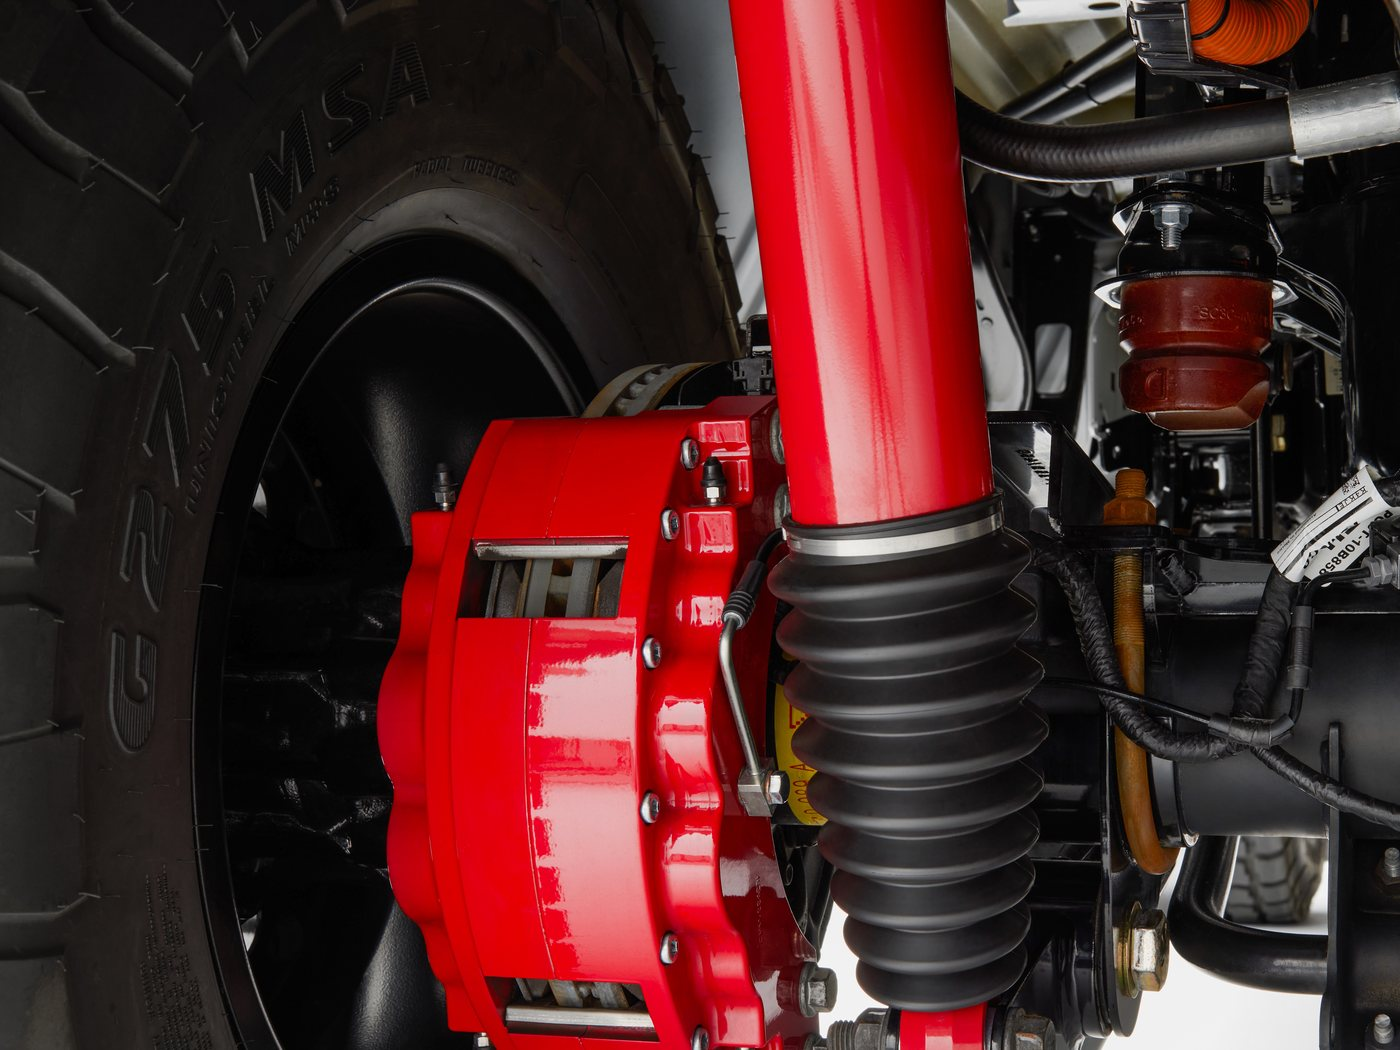
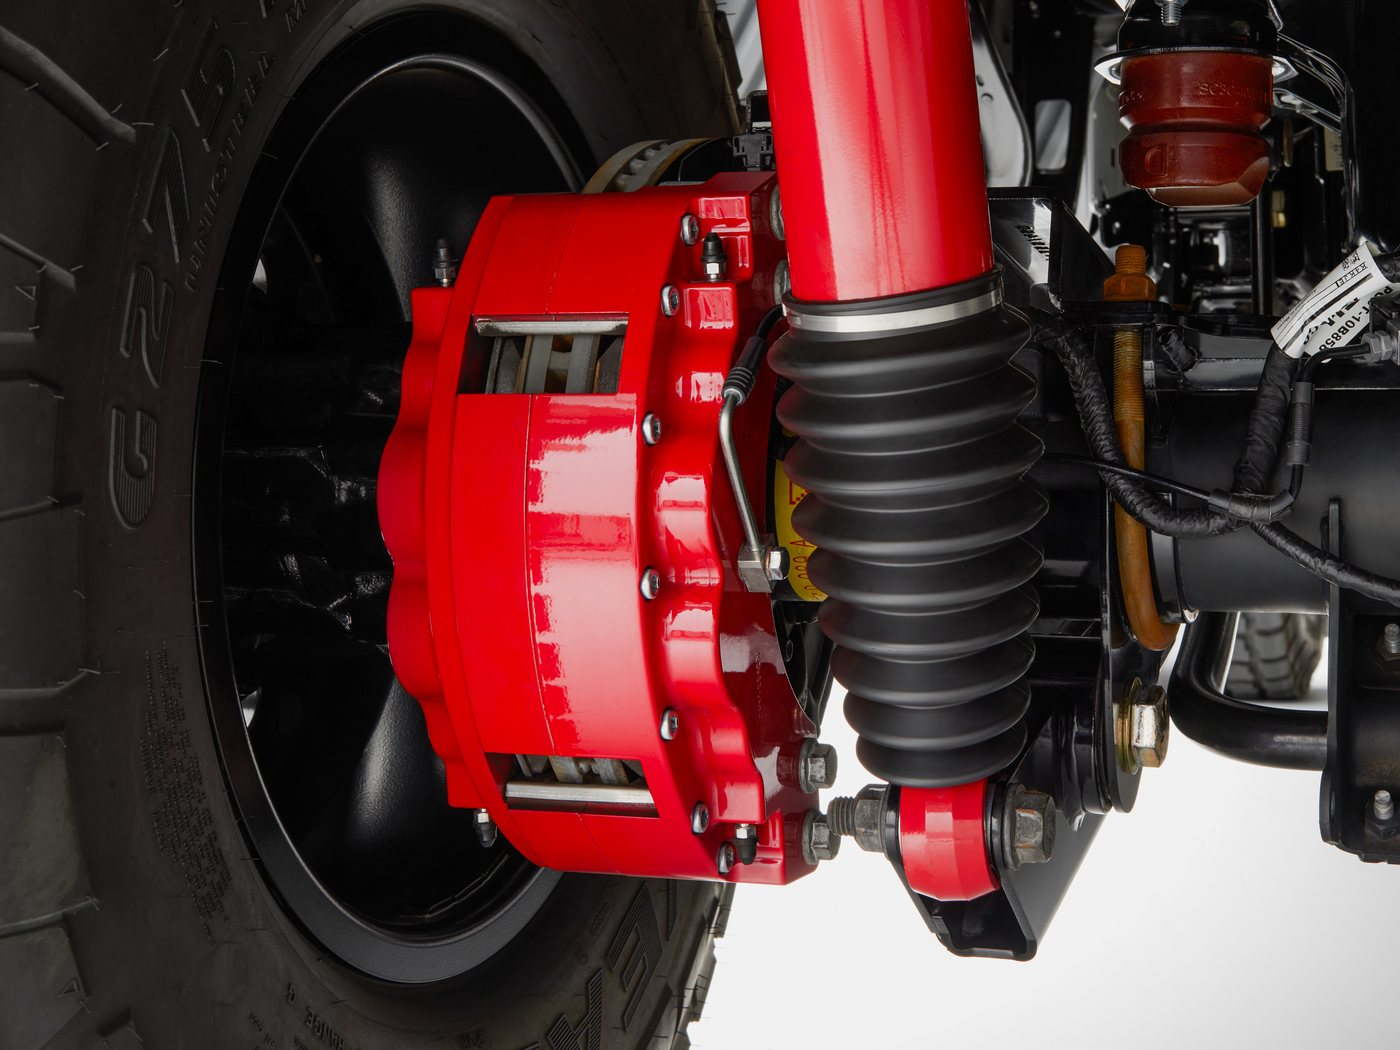
Lead the brake panel with the kit and the hard stop
The panel was arguing from a test procedure, which is the least
interesting true thing about it. What a buyer towing 14,000 lb wants to
know is that the Beast kit is on every truck we build as standard, and
what the truck does when somebody actually stands on the pedal.

So 185 ft is the figure now, and 229 stays in the prose: 185 is the
number worth reading and 229 is the number the written report contains,
and a page resting only on the first would have nothing behind it. The
note says plainly that the 185 ft stop was made outside the measured
procedure and comes from the test engineer rather than the report.

The front crop also moves down to put the caliper on the middle line --
it was sitting low enough to lose its bottom edge -- and both photo srcs
pick up a version so the new crop is not read past.

diff --git a/index.html b/index.html
@@ -296,21 +296,22 @@
           <!-- Two frames from the studio shoot, cropped to the same 4:3 so the
                pair reads as one strip rather than two unrelated pictures. -->
           <div class="spec-shots">
-            <img src="media/brakes-front.jpg" width="1400" height="1050" loading="lazy"
+            <img src="media/brakes-front.jpg?v=2" width="1400" height="1050" loading="lazy"
                  alt="Front SSBC Beast caliper behind a 44-inch Goodyear, with the red LiquidSpring strut alongside">
-            <img src="media/brakes-rear.jpg" width="1400" height="1050" loading="lazy"
+            <img src="media/brakes-rear.jpg?v=2" width="1400" height="1050" loading="lazy"
                  alt="Rear axle of a MAV build, both red calipers and both LiquidSpring struts visible">
           </div>
           <div class="spec-body">
-            <p class="eyebrow">Brakes</p>
-            <h2 class="panel-title panel-title-sm">Tested loaded, not empty</h2>
-            <p class="panel-sub panel-sub-left">Forty-four inch tires, four inches of lift and a conversion&rsquo;s worth of added weight all change how a truck stops. So we had it measured rather than assume. An independent lab ran a finished Apex through the federal dynamic brake procedure at a full 14,000 lb &mdash; its entire rated weight, not a curb-weight number. Six stops from 60 mph, and every one of them landed at least 20% shorter than the limit allows.</p>
+            <p class="eyebrow">SSBC Beast big-brake kit</p>
+            <h2 class="panel-title panel-title-sm">Maximum safety and stopping power</h2>
+            <p class="panel-sub panel-sub-left">The Beast kit goes on every truck we build, front and rear. It is not an option and it is not an upgrade, because a truck this size, on tires this tall, with a trailer behind it, is only ever as safe as the thing that slows it down. That is not where we let a customer economize.</p>
+            <p class="panel-sub panel-sub-left">An independent lab put a finished Apex through the federal brake procedure at a full 14,000 lb &mdash; its entire rated weight, not a curb-weight number. Six stops from 60 mph, averaging 229 feet against the 310 the law allows. And those runs were never the truck&rsquo;s best: the lab was following a procedure, not trying to stop short, so nobody put the pedal to the floor. When the engineer did, it stopped in <strong>185 feet</strong>.</p>
             <div class="tier-figures tier-figures-3">
-              <div><strong>229 ft</strong><span>60&#8209;0&nbsp;mph average</span></div>
+              <div><strong>185 ft</strong><span>60&#8209;0&nbsp;mph, full braking</span></div>
               <div><strong>310 ft</strong><span>Federal limit</span></div>
               <div><strong>14,000 lb</strong><span>Weight as tested</span></div>
             </div>
-            <p class="tier-figures-note">Measured by Dynamic Research, Inc. on a MAV Apex on 44&quot; tires, loaded to its full 14,000 lb GVWR, to the FMVSS&nbsp;105 dynamic brake procedure. A partial test, not a certification of compliance. Both packages carry the same SSBC Beast kit; the Summit&rsquo;s 41&quot; tires were not separately tested.</p>
+            <p class="tier-figures-note">Measured by Dynamic Research, Inc. on a MAV Apex on 44&quot; tires, loaded to its full 14,000 lb GVWR, to the FMVSS&nbsp;105 dynamic brake procedure. A partial test, not a certification of compliance. The 185&nbsp;ft stop was made under maximum pedal effort, outside the measured procedure, and is reported by the test engineer. Both packages carry the same SSBC Beast kit; the Summit&rsquo;s 41&quot; tires were not separately tested.</p>
           </div>
         </article>
 
